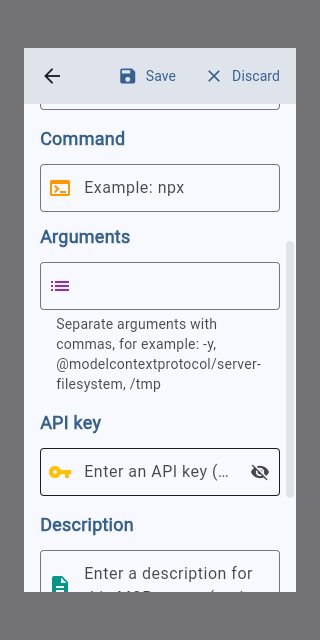
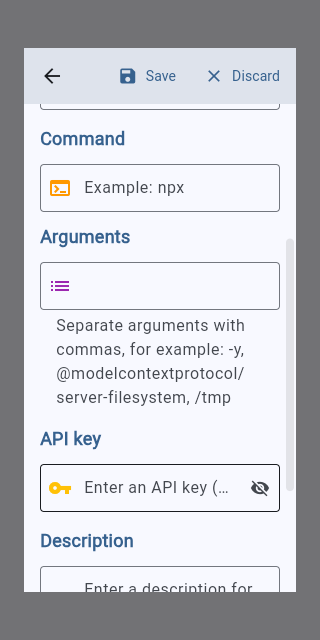
test(mcp): validate arguments hint capture

diff --git a/tool/qa/mcp_arguments_hint_capture.dart b/tool/qa/mcp_arguments_hint_capture.dart
@@ -1,10 +1,15 @@
 import 'package:flutter/material.dart';
 import 'package:flutter_riverpod/flutter_riverpod.dart';
+import 'package:flutter/semantics.dart';
 import 'package:stroom/l10n/app_localizations.dart';
 import 'package:stroom/pages/mcp_server_config_page.dart';
 import 'package:stroom/providers/provider_config.dart';
+import 'package:web/web.dart' as web;
 
 void main() {
+  WidgetsFlutterBinding.ensureInitialized();
+  SemanticsBinding.instance.ensureSemantics();
+
   const locale = Locale('en', 'US');
 
   runApp(
@@ -24,18 +29,35 @@ void main() {
           colorScheme: ColorScheme.fromSeed(seedColor: Colors.blue),
         ),
         home: Builder(
-          builder: (context) => Scaffold(
-            body: Center(
-              child: ElevatedButton(
-                onPressed: () => showMcpServerConfigDialog(
-                  context: context,
-                  entryId: 'safe_fixture_mcp',
-                  configIndex: -1,
+          builder: (context) {
+            WidgetsBinding.instance.addPostFrameCallback((_) {
+              web.window.document.documentElement?.setAttribute(
+                'data-mcp-capture-launcher-ready',
+                'true',
+              );
+            });
+
+            return Scaffold(
+              body: Center(
+                child: ElevatedButton(
+                  onPressed: () {
+                    showMcpServerConfigDialog(
+                      context: context,
+                      entryId: 'safe_fixture_mcp',
+                      configIndex: -1,
+                    );
+                    WidgetsBinding.instance.addPostFrameCallback((_) {
+                      web.window.document.documentElement?.setAttribute(
+                        'data-mcp-arguments-dialog-ready',
+                        'true',
+                      );
+                    });
+                  },
+                  child: const Text('Open MCP settings'),
                 ),
-                child: const Text('Open MCP settings'),
               ),
-            ),
-          ),
+            );
+          },
         ),
       ),
     ),

diff --git a/lib/pages/mcp_server_config_page.dart b/lib/pages/mcp_server_config_page.dart
@@ -692,7 +692,7 @@ class _McpServerConfigDialogState
                           AppLocalizations.of(context)!.mcpArgumentsHint,
                           style: Theme.of(context)
                               .textTheme
-                              .bodyMedium
+                              .bodyLarge
                               ?.copyWith(color: cs.onSurfaceVariant),
                         ),
                         border: OutlineInputBorder(),

diff --git a/tool/qa/capture_mcp_arguments_hint.py b/tool/qa/capture_mcp_arguments_hint.py
@@ -12,16 +12,18 @@ from playwright.sync_api import sync_playwright
 
 ROOT = Path(__file__).resolve().parents[2]
 STATE = Path('/workspace/.cloud-profile-state/vertical_mcp_arguments_hint')
-TMP = STATE / 'tmp'
+TMP = STATE / 't'
 PUB_CACHE = STATE / 'pub-cache'
 WEB_BUILD = STATE / 'web-build'
 OUTPUT = ROOT / 'docs/ui-constrained-text-qa/vertical-mcp-arguments-hint'
 SCREENSHOT = OUTPUT / 'mcp-arguments-hint-en-320x640-scale1-light.png'
 OUTPUT.mkdir(parents=True, exist_ok=True)
 TMP.mkdir(parents=True, exist_ok=True)
+os.environ['TMPDIR'] = str(TMP)
 
 environment = os.environ.copy()
 environment['TMPDIR'] = str(TMP)
+environment['XDG_CACHE_HOME'] = str(STATE / 'xdg-cache')
 environment['PUB_CACHE'] = str(PUB_CACHE)
 env = Path('/workspace/toolchains/flutter-linux-deps/env')
 environment['PKG_CONFIG_PATH'] = f'{env}/lib/pkgconfig:{env}/share/pkgconfig'
@@ -32,23 +34,20 @@ environment['LD_LIBRARY_PATH'] = str(env / 'lib')
 environment['PATH'] = f'{env}/bin:{environment["PATH"]}'
 
 entrypoint = ROOT / 'tool/qa/mcp_arguments_hint_capture.dart'
-if not (WEB_BUILD / 'index.html').exists() or entrypoint.stat().st_mtime > (
-    WEB_BUILD / 'index.html'
-).stat().st_mtime:
-    subprocess.run(
-        [
-            '/workspace/sdks/flutter/bin/flutter',
-            'build',
-            'web',
-            '--no-pub',
-            '--release',
-            f'--target={entrypoint}',
-            f'--output={WEB_BUILD}',
-        ],
-        cwd=ROOT,
-        env=environment,
-        check=True,
-    )
+subprocess.run(
+    [
+        '/workspace/sdks/flutter/bin/flutter',
+        'build',
+        'web',
+        '--no-pub',
+        '--release',
+        f'--target={entrypoint}',
+        f'--output={WEB_BUILD}',
+    ],
+    cwd=ROOT,
+    env=environment,
+    check=True,
+)
 
 with socket.socket() as listener:
     listener.bind(('127.0.0.1', 0))
@@ -96,9 +95,17 @@ try:
         )
         page.on('pageerror', lambda error: errors.append(str(error)))
         page.goto(base_url, wait_until='load', timeout=120_000)
-        page.wait_for_timeout(1_500)
+        page.wait_for_function(
+            "document.documentElement.hasAttribute("
+            "'data-mcp-capture-launcher-ready')",
+            timeout=30_000,
+        )
         page.mouse.click(160, 320)
-        page.wait_for_timeout(500)
+        page.wait_for_function(
+            "document.documentElement.hasAttribute("
+            "'data-mcp-arguments-dialog-ready')",
+            timeout=30_000,
+        )
         # The stdio option is the left transport choice near the top of the
         # dialog. Keep the page unfocused so the capture shows helper wrapping
         # without a software keyboard covering the content.
@@ -107,6 +114,15 @@ try:
         page.mouse.move(160, 480)
         page.mouse.wheel(0, 260)
         page.wait_for_timeout(500)
+        if not page.locator('html').get_attribute(
+            'data-mcp-arguments-dialog-ready'
+        ):
+            raise RuntimeError('MCP configuration dialog did not open')
+        page.get_by_text(
+            'Separate arguments with commas, for example: -y, '
+            '@modelcontextprotocol/server-filesystem, /tmp',
+            exact=True,
+        ).wait_for(timeout=10_000)
         page.screenshot(path=str(SCREENSHOT))
         browser.close()
 

diff --git a/tools/ci/run_flutter_test_suite.py b/tools/ci/run_flutter_test_suite.py
@@ -76,6 +76,7 @@ FUNCTIONAL_SUITES: dict[str, tuple[str, ...]] = {
         "providers/context_management_settings_test.dart",
         "providers/provider_config*_test.dart",
         "providers/provider_entries_legacy_effort_migration_test.dart",
+        "pages/mcp_server_config_page_test.dart",
         "providers/temporary_conversation_test.dart",
         "utils/model_order_test.dart",
         "utils/attachment_preview_lifecycle_test.dart",
